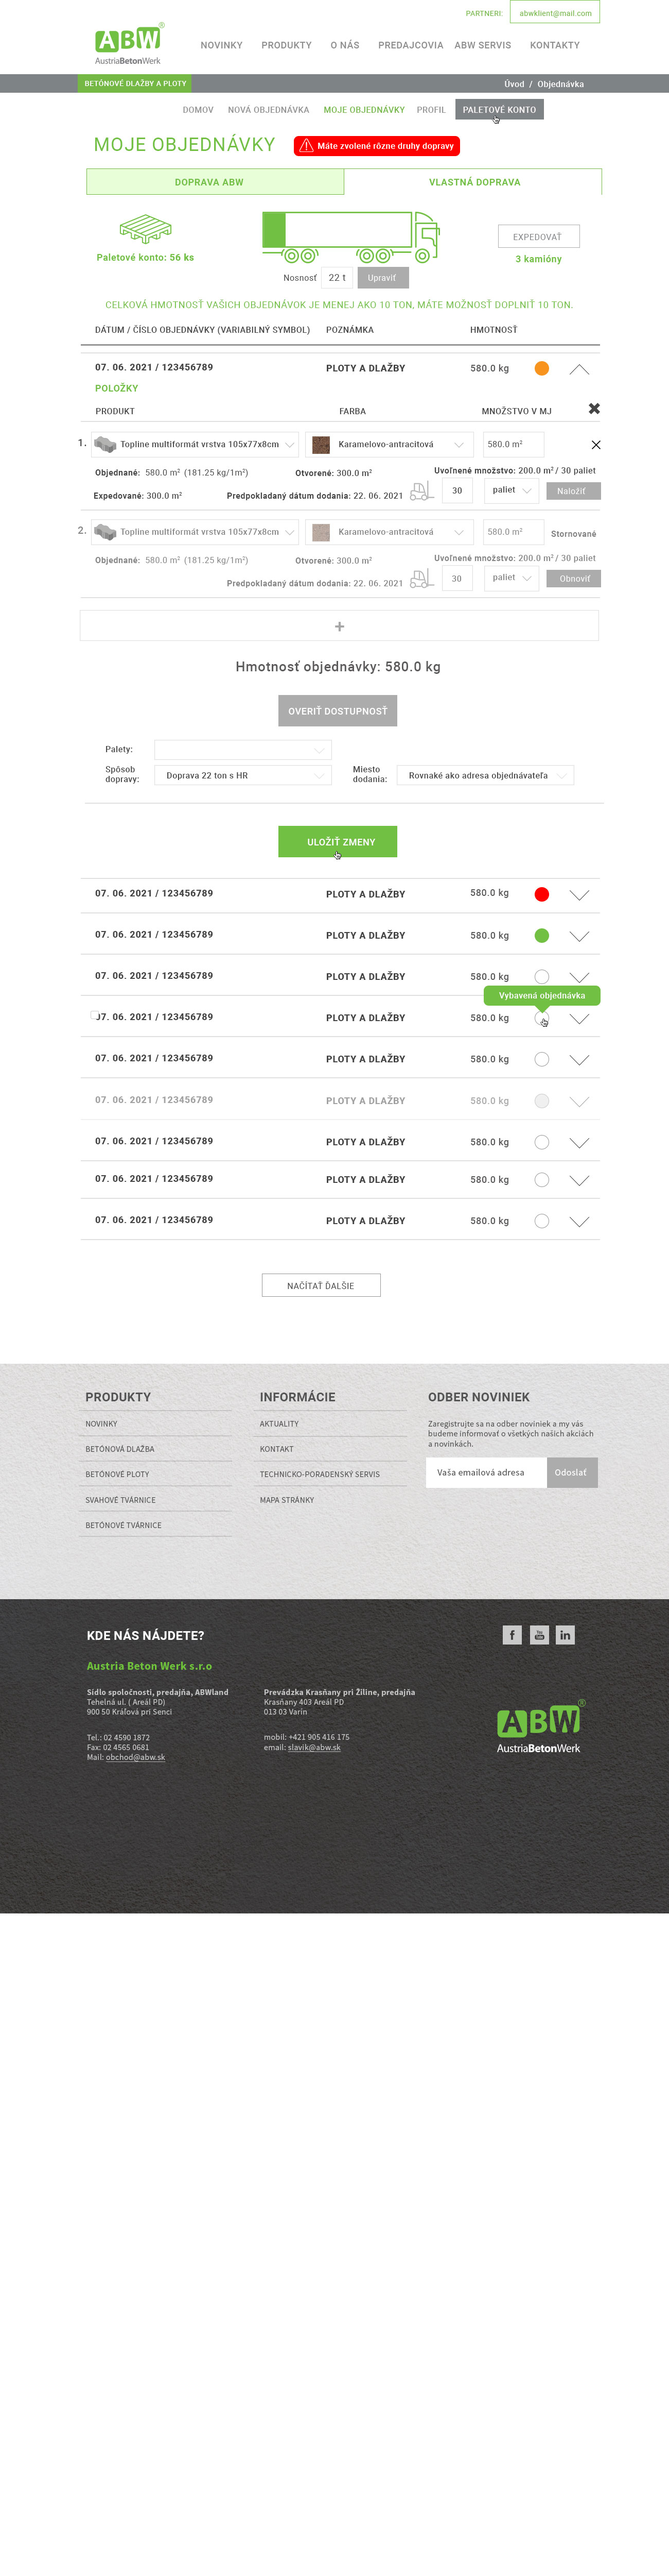
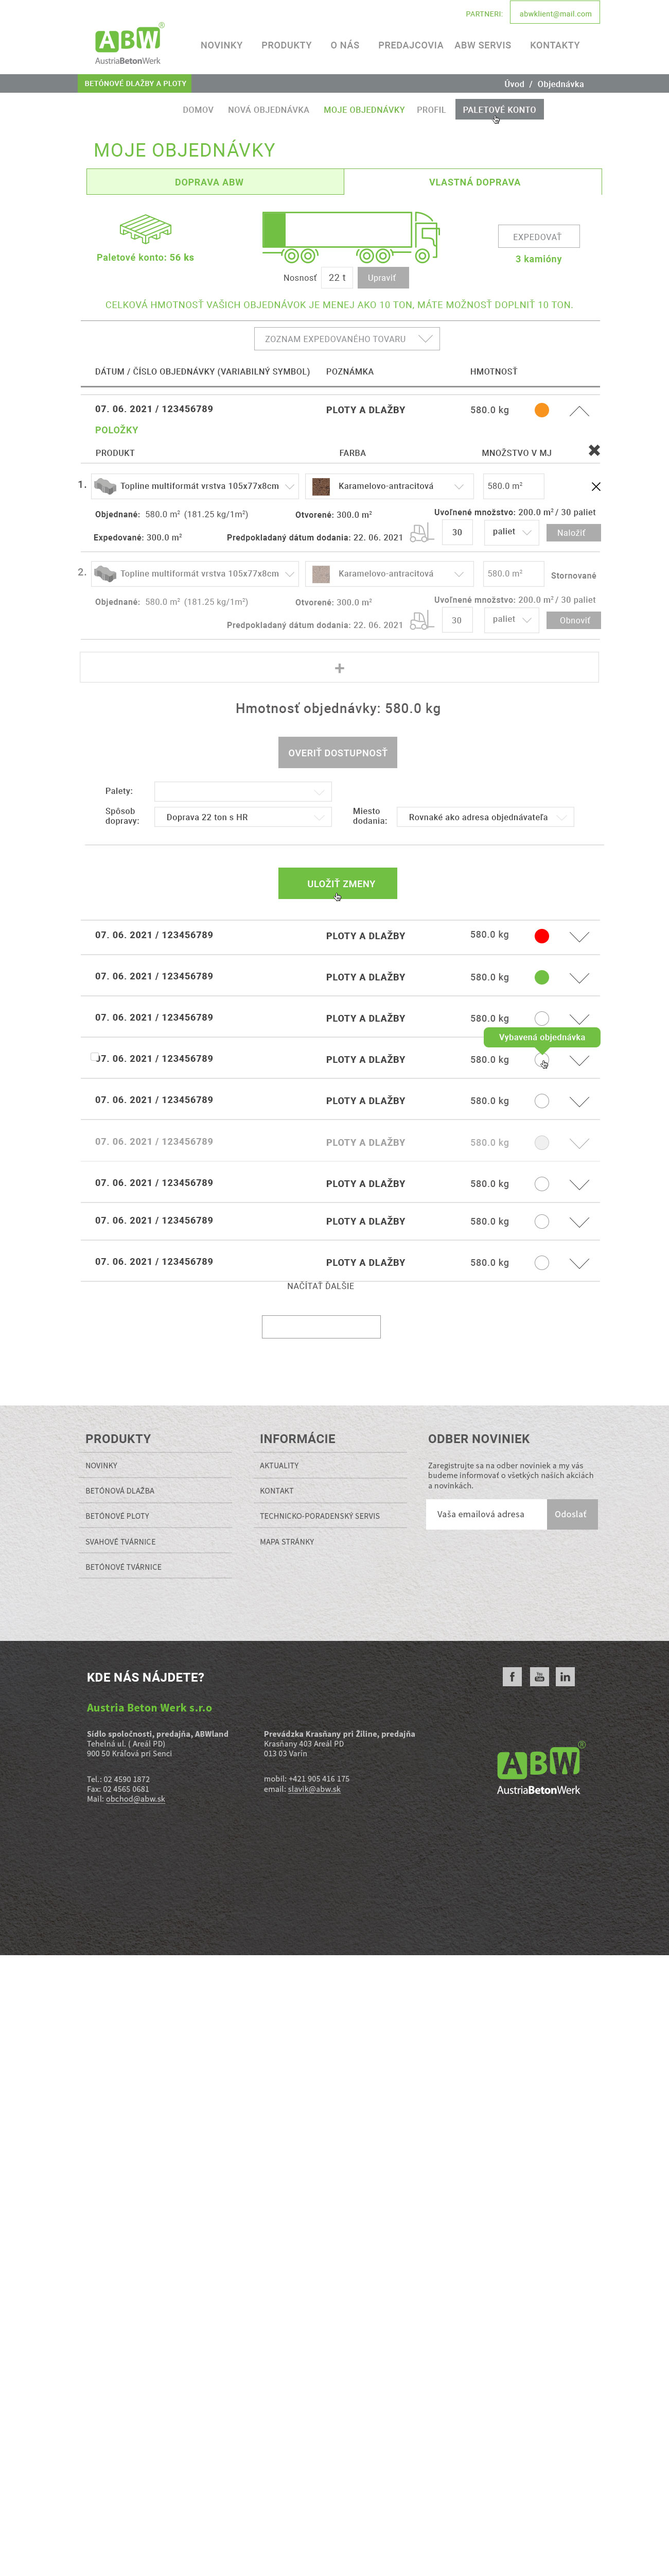
Sum

diff --git a/docs/web/06.21/objednavky/04.html b/docs/web/06.21/objednavky/04.html
@@ -15,6 +15,6 @@ body {
 }
 </style>
 <body> 
-<div align="center"> <a href="04.html"><img src="Web_ABW_objednavky-3.jpg" width="1300" height="5000" border="0"></a></div>
+<div align="center"> <a href="index.html"><img src="Web_ABW_objednavky-expedicia.jpg" width="1300" height="5000" border="0"></a></div>
 </body>
 </html>
